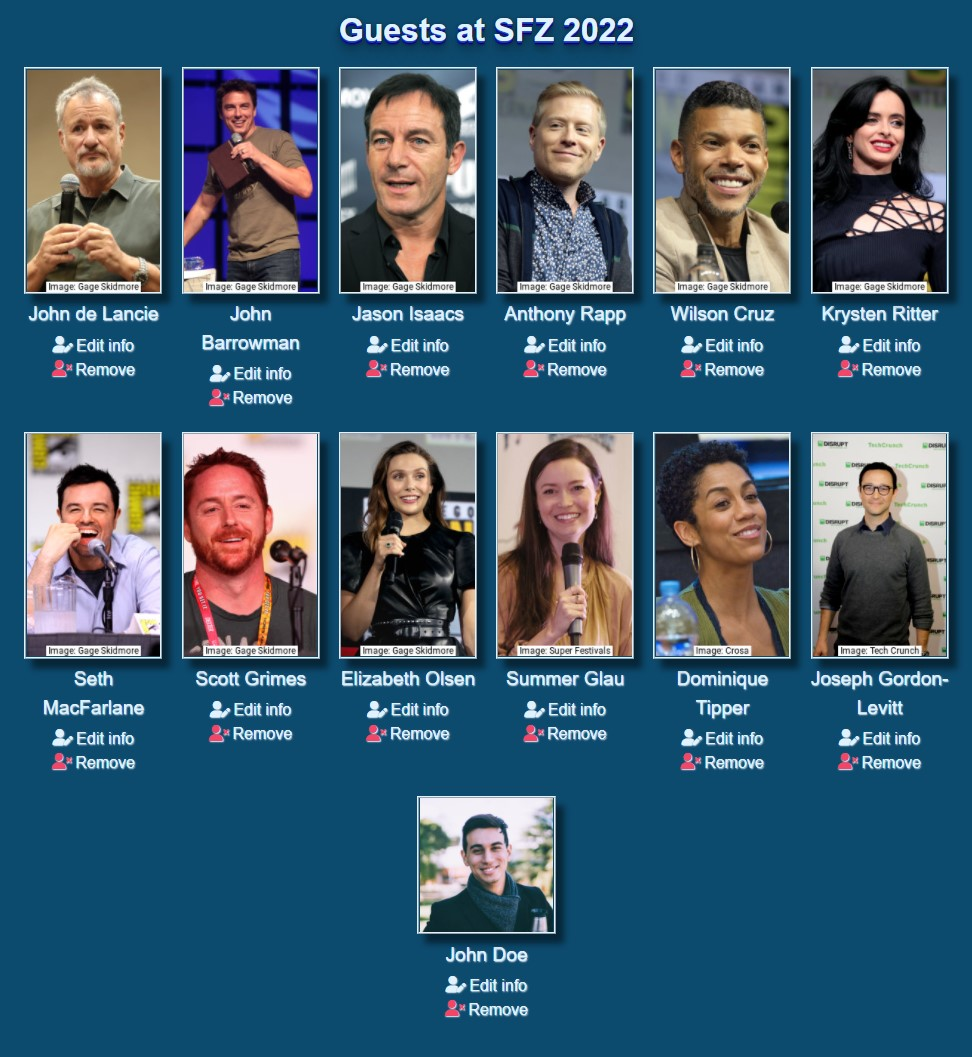
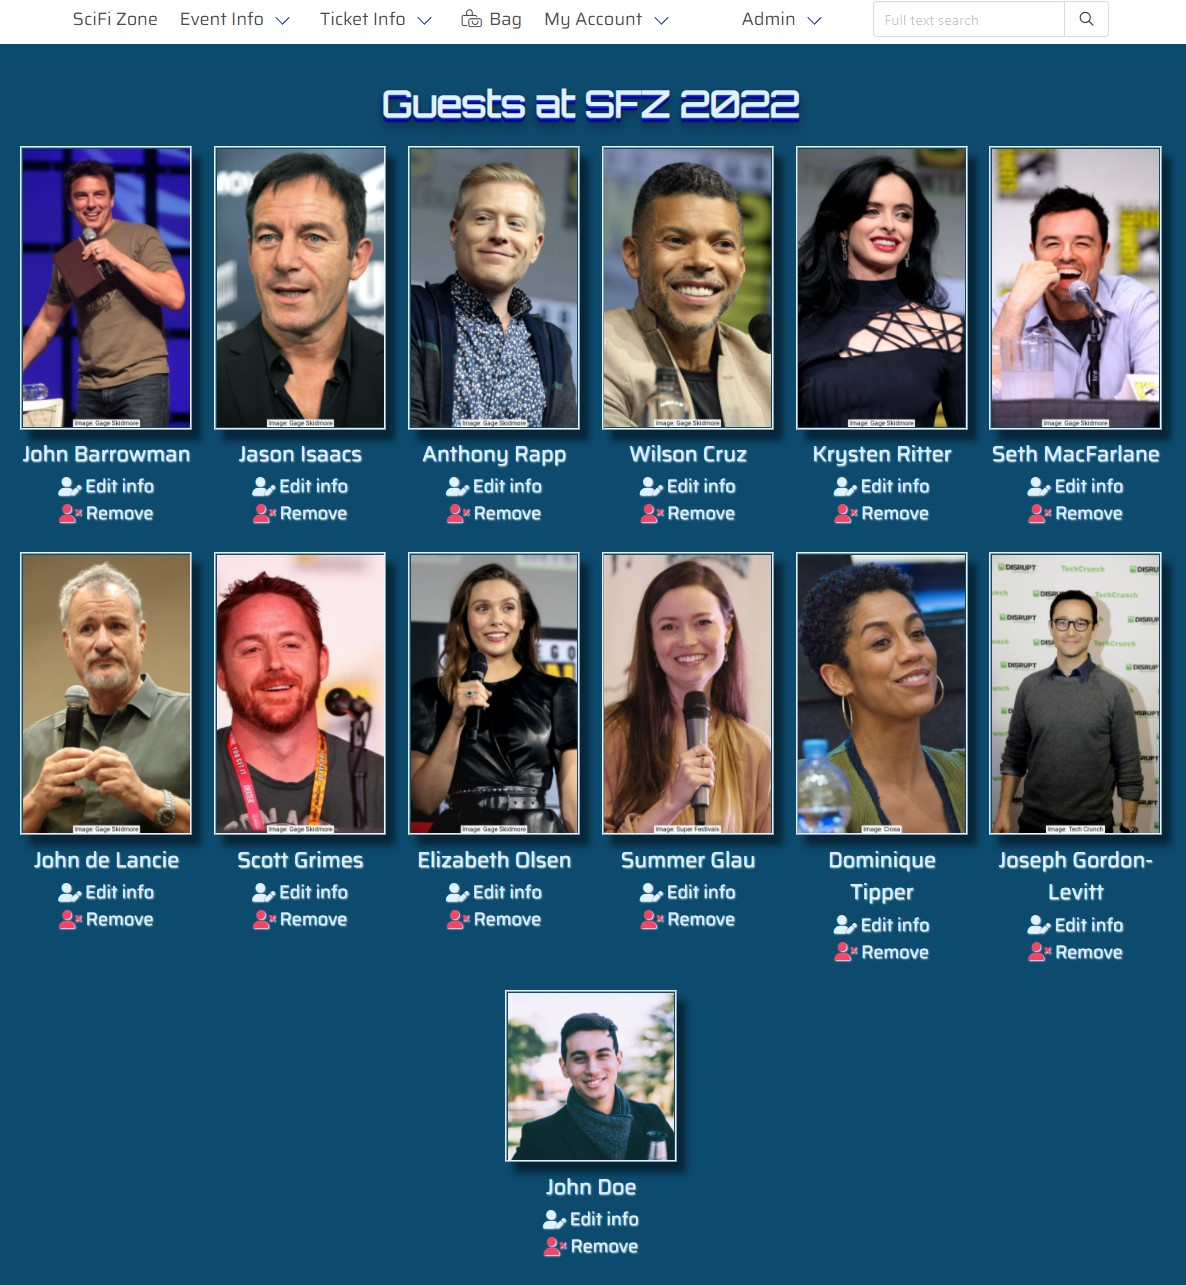
docs: Add/update images + test results

diff --git a/TESTING.md b/TESTING.md
@@ -18,9 +18,9 @@ The following user requirements and expectations were developed based on the use
 #### **Expectation 2: being able to see a specific category of tickets**
 
 -   Requirement: allow users to filter for ticket categories
--   Implementation: Django-Watson was used to implement full-text search across all relevant models.
+-   Implementation: In addition to the navbar providing links to the tickets and packages pages and all tickets in each category being displayed there (see screenshots above), Django-Watson was used to implement full-text search across all relevant models.
 
-FIX BUG AND ADD SCREENSHOTS
+![user-expectation-2](documentation/testing/usertests/user-expectation-2.jpg)
 
 #### **Expectation 3: being able to see details about the tickets**
 
@@ -69,13 +69,11 @@ FIX BUG AND ADD SCREENSHOTS
 #### **Expectation 9: being able to search for a ticket by category or actor name to easily find autograph or photoshoot tickets with selected actors**
 
 -   Requirement: Implement a search function.
--   Implementation: Both tickets and actors can be found using the search function. Another way to find the autograph or photoshoot tickets with an actor is to view the [detail pages for the selected ticket category](). However, unless a user knows in which category the actor can be found, the user must view one, two, or all three categories before the actor is found.
+-   Implementation: Both tickets and actors can be found using the [search function](documentation/testing/usertests/user-expectation-9-example-4.jpg). The easiest way to find the autograph or photoshoot tickets with an actor is to view the detail pages for the [selected actor](documentation/testing/usertests/user-expectation-9-example-2.jpg). From there, autograph and photoshoot tickets can be added to the shopping bag. All actors in a price category can be viewed on the detail page for each [ticket category](documentation/testing/usertests/user-expectation-9-example-3.jpg).
 
-![user-expectation-9](documentation/testing/usertests/user-expectation-9.jpg)
+![user-expectation-9-example-4](documentation/testing/usertests/user-expectation-9-example-4.jpg)
 ![user-expectation-9-example-2](documentation/testing/usertests/user-expectation-9-example-2.jpg)
 ![user-expectation-9-example-3](documentation/testing/usertests/user-expectation-9-example-3.jpg)
-
-ADD WATSON SEARCH SCREENSHOTS ONCE THE CUSTOM TEMPLATE WORKS
 
 #### **Expectation 10: being able to see detailed bag contents and total cost**
 
@@ -103,7 +101,8 @@ ADD WATSON SEARCH SCREENSHOTS ONCE THE CUSTOM TEMPLATE WORKS
 -   Requirement: Using Django middleware and additional tools like Django-CSP and Django-CORS to make the site as secure as possible. Using Stripe to handle payments, so that the user's payment information never touches the application's server.
 -   Implementation: see requirement.
 
-ADD SETTINGS SCREENSHOT OR UPDATE REQUIREMENT INFO
+![user-expectation-13](documentation/testing/usertests/user-expectation-13.jpg)
+![user-expectation-13-example-2](documentation/testing/usertests/user-expectation-13-example-2.jpg)
 
 #### **Expectation 14: being able to view an order summary before checkout**
 
@@ -115,7 +114,7 @@ ADD SETTINGS SCREENSHOT OR UPDATE REQUIREMENT INFO
 #### **Expectation 15: receiving an email confirmation after checkout**
 
 -   Requirement: Collect the user's email address, attach it to the order, and send a confirmation email after a successful checkout.
--   Implementation: The checkout view handles the business logic and generates an [order confirmation on screen](documentation/testing/usertests/user-expectation-15.jpg) after a successful checkout. The built-in Django functionality is used to send a [confirmation email](documentation/testing/usertests/user-expectation-15-example-2.jpg) to the user. Please note that the confirmation email and the confirmation on screen in the images do not match each other and were chosen for convenience.
+-   Implementation: The checkout view handles the business logic and generates an [order confirmation on screen](documentation/testing/usertests/user-expectation-15.jpg) after a successful checkout. The built-in Django functionality is used to send a [confirmation email](documentation/testing/usertests/user-expectation-15-example-2.jpg) to the user.
 
 ![user-expectation-15](documentation/testing/usertests/user-expectation-15.jpg)
 
@@ -170,6 +169,64 @@ Please note that for the following three expectations, an adjustment has been ma
 ### **W3C Markup Validator**
 
 ---
+
+For validating my HTML code at first the source code from each page of the generated live site was copied and pasted into the validator on [W3C Markup Validation Service](https://validator.w3.org/). At first, several errors, e.g. regarding labels and missing closing tags, were reported. These errors have been fixed and the tests repeated. The last test runs were done using 'Check by address' for all pages except the bag, checkout, checkout success page, and add guest page. For these, the source code was used. The results are presented below:
+
+**Result for homepage:**
+
+-   No errors reported. Two warnings.
+
+**Result for guests page:**
+
+-   No errors or warnings reported.
+
+**Result for timetable page:**
+
+-   No errors or warnings reported.
+
+**Result for tickets page:**
+
+-   No errors or warnings reported.
+
+**Result for ticket details page** (Photoshoot category A exemplary for all ticket details pages)
+
+-   No errors or warnings reported after several fixes.
+
+**Result for packages page:**
+
+-   No errors or warnings reported.
+
+**Result for package details page** (diamond package exemplary for all packages):
+
+-   No errors or warnings reported after several fixes.
+
+**Result for bag page**
+
+-   No errors or warnings reported after several fixes.
+
+**Result for checkout page**
+
+-   No errors reported. Three warnings.
+
+**Result for checkout success page**
+
+-   No errors or warnings reported.
+
+**Result for profile page**
+
+-   No errors or warnings reported.
+
+**Result for add guest page**
+
+-   One error reported: "Attribute placeholder is only allowed when the input type is email, number, password, search, tel, text, or url"
+
+**Result for site notice page**
+
+-   No errors or warnings reported.
+
+**Result for privacy policy page**
+
+-   No errors or warnings reported.
 
 ### **W3C CSS Validator**
 
@@ -331,7 +388,15 @@ Please note that I only checked pages created by me.
 
 -   **Guests page:**
 
-OPTIMIZE IMAGES
+**guests-mobile:**
+
+![guests-mobile](documentation/testing/lighthouse-results/guests-mobile.jpg)
+
+![guests-mobile_opportunities](documentation/testing/lighthouse-results/guests-mobile_opportunities.jpg)
+
+**guests-desktop**:
+
+![guests-desktop](documentation/testing/lighthouse-results/guests-desktop.jpg)
 
 -   **Timetable page:**
 
@@ -470,11 +535,15 @@ No errors were reported for base.js or stripe_elements.js using [JSHint](https:/
 
 ---
 
+Each .py-file has been formatted using the autopep8-extension for VSCode with the parameters '--max-line-length 79 --in-place --aggressive --aggressive' to guarantee PEP8-compliance. No errors have been reported by pylint.
+
 ## **Usability Testing**
 
 ---
 
 ---
+
+Family, friends and colleagues were asked to test the site on their computers and/or mobile devices and their preferred browsers. The first page load can sometimes take very long. This happens when the app is 'asleep'. This is a limitation of the free Heroku account. No issues regarding the navigation of the site were reported. Feedback regarding the style of the CTA button on the homepage and the 'Add to shopping bag' buttons on the actor/ticket/package detail pages has been taken into account and the buttons now match the style of the buttons from the register and login pages. Feedback regarding the readability due to poor contrast has been taken into account as well and the text color for disclaimers has been adjusted to the default color and a red border has been added. No other issues were reported.
 
 ## **Compatibility Testing**
 
@@ -488,20 +557,22 @@ No errors were reported for base.js or stripe_elements.js using [JSHint](https:/
 
 ---
 
+To test responsiveness, I used Google Chrome Developer Tools and Sizzy. Several problems could be identified and corrected, e.g. https://github.com/Ryagg/scifi_zone/commit/2241f748c2b2963ba7e46a47f00a220ae7ef11ba. For the remaining bugs refer to the Bugs section below. Apart from that, the site content is displayed correctly on all viewports.
+
 ## **Bugs**
 
 ---
 
 ---
 
--   Images for guests are not displayed if an URL instead of a file is provided.
 -   Uploaded images don't match the size of the existing images due to the applied transformations before uploading the original images.
--   When logged in as an admin, the search bar input field causes overflow for some viewports.
+-   When logged in as an admin, the search bar input field causes overflow for some viewports and the navbar items are not centred for viewports from 1024px to 1215px.
 
 ![admin-searchbar](documentation/testing/bugs/admin-searchbar.jpg)
 ![admin-searchbar-complete](documentation/testing/bugs/admin-searchbar-complete.jpg)
+![admin-searchbar-centered](documentation/testing/bugs/admin-searchbar-centered.jpg)
 
--   For viewports greater than 320px, the country select label on the checkout page is longer than the other input fields. Media query only works for 320px.
+-   For all viewports the country select label on the checkout page is longer than the other input fields.
 
 ![county-select-label](documentation/testing/bugs/country-select-label.jpg)
 
@@ -510,4 +581,5 @@ No errors were reported for base.js or stripe_elements.js using [JSHint](https:/
 ![checkout-heading-320px](documentation/testing/bugs/checkout-heading-320px.jpg)
 
 -   Hovering over the checkbox on the login page causes the text next to it to use the Bulma default for hover and become difficult to read due to poor contrast
--   The submit button on the password reset page uses border-radius 0 and doesn't match the other buttons throughout the page.
+
+![login-checkbox](documentation/testing/bugs/login-checkbox.jpg)

diff --git a/README.md b/README.md
@@ -12,7 +12,7 @@ Sci-Fi-Zone offers various tickets for a fictional science-fiction themed conven
 ![GitHub Pipenv locked dependency version](https://img.shields.io/github/pipenv/locked/dependency-version/ryagg/scifi_zone/django?style=plastic)
 ![GitHub last commit](https://img.shields.io/github/last-commit/ryagg/scifi_zone?style=plastic)
 
-![Mockup]ADD MOCKUP!!!
+![Mockup](documentation/readme/mockup.jpg)
 
 ## **Deployed project**
 
@@ -87,7 +87,7 @@ All icons on the pages are from [Font Awesome](https://fontawesome.com). Links t
 
 #### **Imagery**
 
-Actor images were obtained from [Wikimedia](https://commons.wikimedia.org/w/index.php?search=&title=Special:MediaSearch&type=image). A [SOURCE.md](https://docs.google.com/spreadsheets/d/1rQUjvQ1QUJXCy0xjzFvaGLI8nwJdJbU3G1KA6ERHgbY/edit#gid=0) was created containing information about the image author, license + attribution, an image description and the URLs both for the image file and the image page. The images were then uploaded to [Cloudinary](https://cloudinary.com/) and transformed. The transformation includes changing the resolution, changing the format depending on the used browser, and adding image credit. For this purpose, several transformations had to be created to apply the correct image credit to each image.
+Actor images were obtained from [Wikimedia](https://commons.wikimedia.org/w/index.php?search=&title=Special:MediaSearch&type=image). A [SOURCE.md](https://docs.google.com/spreadsheets/d/1rQUjvQ1QUJXCy0xjzFvaGLI8nwJdJbU3G1KA6ERHgbY/edit#gid=0) was created containing information about the image author, license + attribution, an image description and the URLs both for the image file and the image page. The images were compressed at [Tinyjpg](https://tinyjpg.com/), and then uploaded to [Cloudinary](https://cloudinary.com/) and transformed. The transformation includes changing the resolution, changing the format depending on the used browser, and adding image credit. For this purpose, several transformations had to be created to apply the correct image credit to each image.
 
 Images used on the tickets and packages pages were obtained from [Freepik](https://www.freepik.com/home). Credit for each image is given below in the media section.
 
@@ -121,10 +121,6 @@ SQLite was used as the database for development, and the data then migrated to H
 -   **Tickets_ticket**
 
     The site's purpose is to sell tickets and packages. This model, together with the following tickets_package and tickets_actor models, is the foundation. Name, image, and description give a brief overview and are used on the tickets/packages pages. Description and included inform the user on the tickets and packages detail page about what the product contains. For autograph and photoshoot tickets, users must choose one guest (star) for which the ticket will be valid. Packaged include additional goodies, which are also listed on the package detail page. The site currently does not use the stored sku data. The ticketholder_name is intended to be used for the creation of personalized tickets.
-
--   **Tickets_package**
-
-    CHECK WHETHER THIS MODEL IS STILL NEEDED. PROBABLY 'LEFTOVER' FROM EARLIER VERSION.
 
 -   **Tickets_actor**
 
@@ -304,13 +300,13 @@ The site features both a site notice and a privacy policy. Both pages can be rea
 
     Used to host static files
 
--   [Django-CSP](https://django-csp.readthedocs.io/en/latest/installation.html)
-
-    Used to add and configure a content-security-policy
-
 -   [Django-crispy-forms](https://django-crispy-forms.readthedocs.io/en/latest/install.html#installing-django-crispy-forms)
 
     Used to render forms
+
+-   [Django-CSP](https://django-csp.readthedocs.io/en/latest/installation.html)
+
+    Used to add and configure a content-security-policy
 
 -   [Django-Watson](https://github.com/etianen/django-watson)
 
@@ -352,6 +348,10 @@ The site features both a site notice and a privacy policy. Both pages can be rea
 
     Used to optimize images
 
+-   [DbDiagram](https://dbdiagram.io/home)
+
+    Used to draw ER diagrams for the database schema
+
 ## **Testing**
 
 ---
@@ -378,7 +378,7 @@ Cloning a repository creates a local copy on your computer. Follow the steps bel
 1. Navigate to the repository [Ryagg/scifi_zone](https://github.com/Ryagg/)
 2. Click 'Code' above the list of files.
 3. In the new window, cloning using HTTPS is the default option. Copy the provided link manually or by clicking on the clipboard symbol.
-4. Open Git Bash.
+4. Open your preferred terminal.
 5. Navigate to your desired directory for the cloned project.
 6. Type git `clone https://github.com/Ryagg/scifi_zone.git` or paste the copied address from step 3.
 7. Press **Enter** to create your local clone.
@@ -403,8 +403,8 @@ To deploy the site remotely on [Heroku](https://www.heroku.com/) please follow t
     - USE_AWS: True
     - AWS_ACCESS_KEY_ID: `<your AWS access key id, generated in the AWS console after user creation>`
     - AWS_SECRET_ACCESS_KEY: `<your secret AWS access key, generated in the AWS console after user creation>`
-    - STRIPE_PUBLIC_KEY: `<your Stripe public key>`
-    - STRIPE_SECRET_KEY: `<your Stripe secret key>`
+    - STRIPE_PUBLIC_KEY: `<your Stripe public key from the dashboard>`
+    - STRIPE_SECRET_KEY: `<your Stripe secret key from the dashboard>`
     - STRIPE_WEBHOOK_KEY: `<your Stripe webhook key. Only necessary if using webhooks. This project currently does not use webhooks.>`
     - EMAIL_HOST_PASS: `<your project email password>`
     - EMAIL:HOST_USER: `<your project email address>`
@@ -452,7 +452,7 @@ Please refer to the separate [SOURCES.md](https://docs.google.com/spreadsheets/d
 
 All code not written by me has the source for the code added as comment above the relevant code. For longer pieces of code the credit is repeated beneath.
 
--   The Python/Django and Javascript code from Code Institute's [Boutique Ado walkthrough](https://github.com/Code-Institute-Solutions/boutique_ado_v1) was used as a groundwork for this project.
+-   The Python/Django and JavaScript code from Code Institute's [Boutique Ado walkthrough](https://github.com/Code-Institute-Solutions/boutique_ado_v1) was used as a groundwork for this project.
 -   Sticky footer for Bulma: https://gehrcke.de/2020/03/bulma-sticky-footer-flexbox-solution/
 
 ### **Websites and Documentation**
@@ -461,9 +461,9 @@ All code not written by me has the source for the code added as comment above th
 
 -   [Bulma docs](https://bulma.io/documentation/)
 -   [Django docs](https://docs.djangoproject.com/en/3.2/)
--   [Django-CSP docs](https://django-csp.readthedocs.io/en/latest/index.html)
 -   [Django-crispy-forms docs](https://django-crispy-forms.readthedocs.io/en/latest/index.html)
--   [Pytest-Dango docs](https://pytest-django.readthedocs.io/en/latest/)
+-   [Django-Watson wiki](https://github.com/etianen/django-watson/wiki)
+-   [Pytest-Django docs](https://pytest-django.readthedocs.io/en/latest/)
 -   [Stackoverflow](https://stackoverflow.com/)
 -   [CSS-tricks](https://css-tricks.com/)
 
